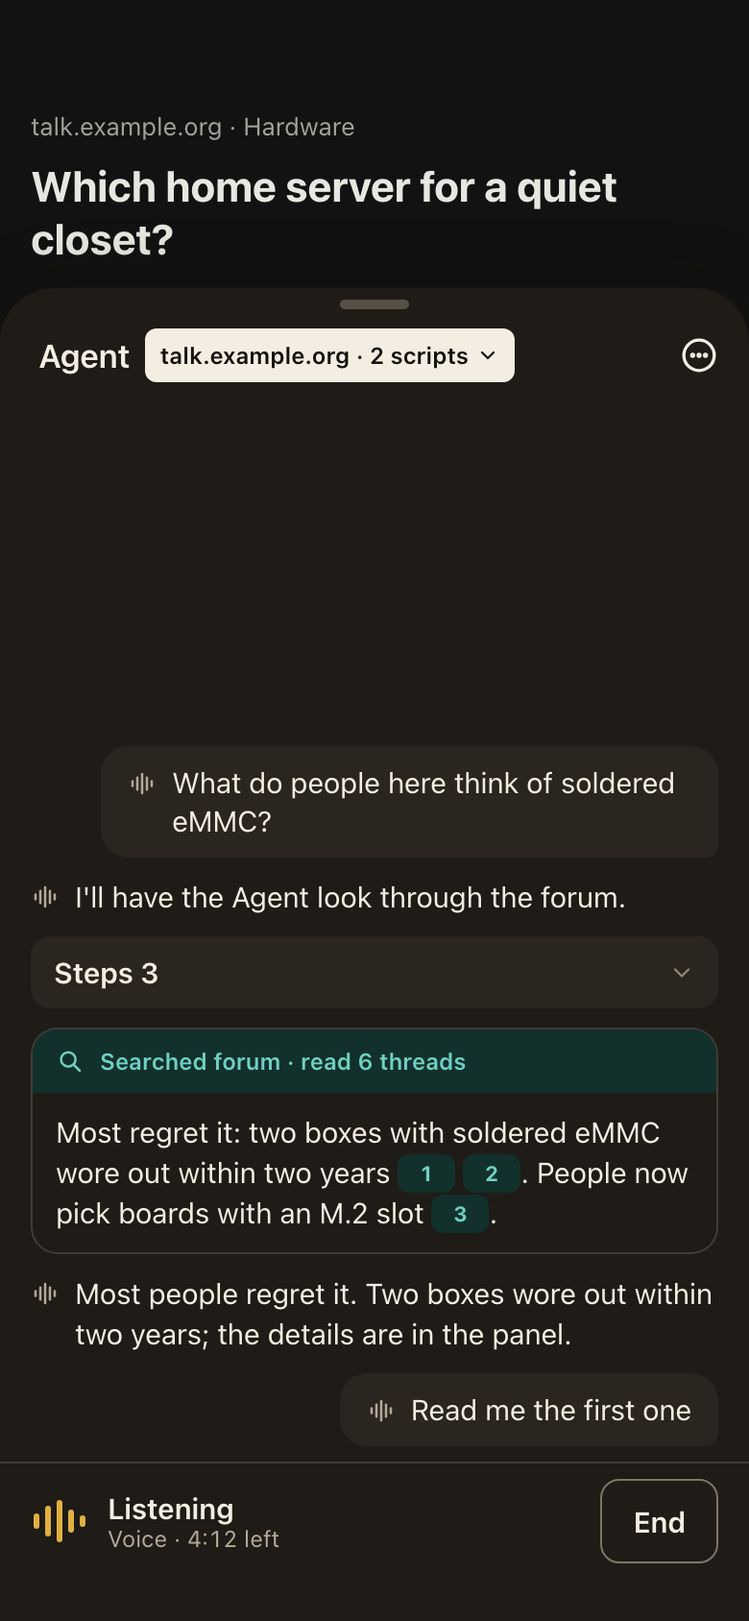
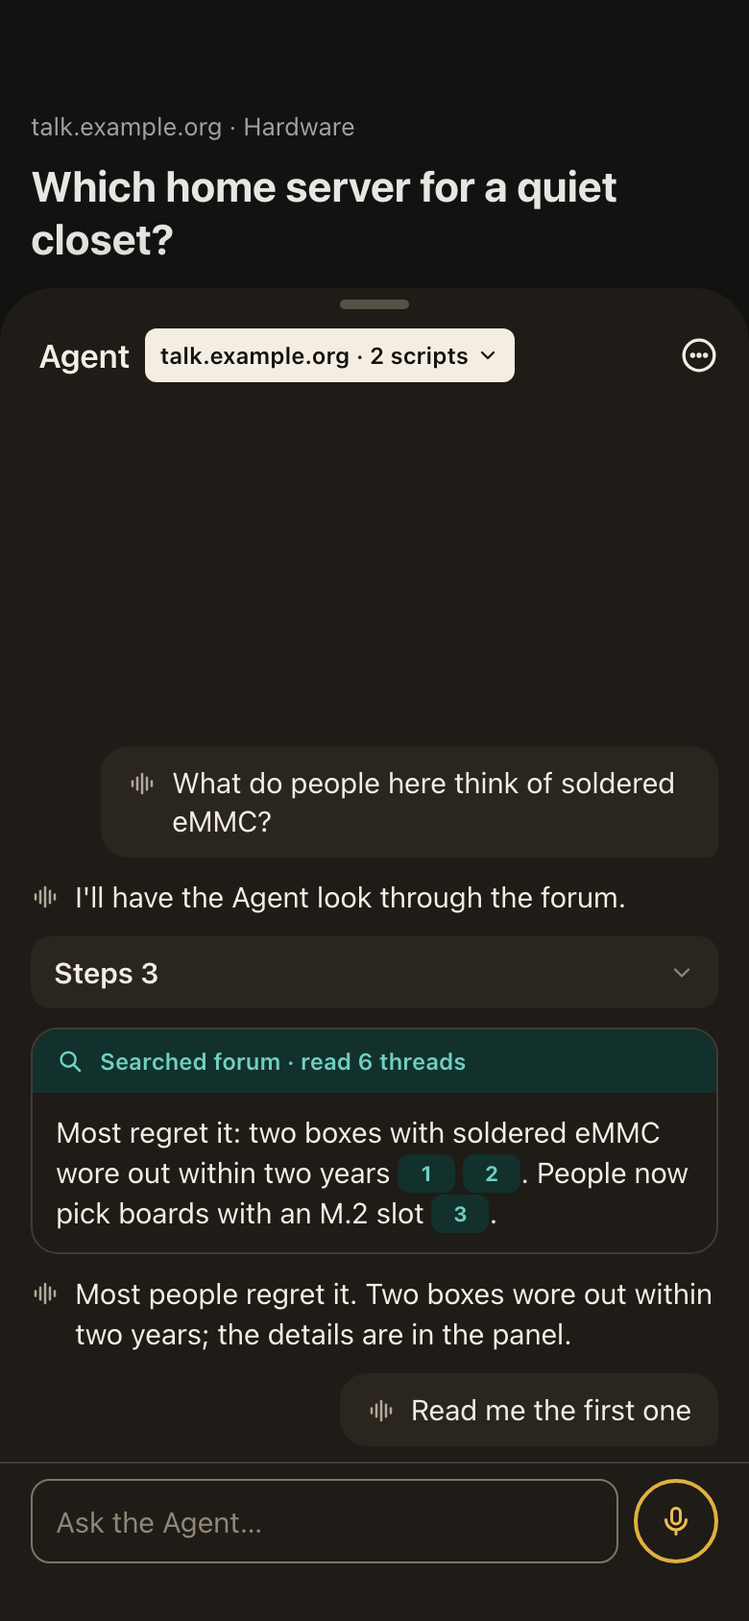
docs(design): match the paused status line to the app, keep voice controls in the Dock
Canvas version 56: the confirmation boards show "Working · step N" as
the app does while a card waits; the voice board keeps the standard
input box; notes no longer state unspecified behaviour as fact.

Claude-Session: https://claude.ai/code/session_0121xsGjmaRaSifEGUFRcdvq

Changed region(s): [[0.8, 0.8934, 0.9846, 0.9858], [0.0308, 0.9242, 0.3692, 0.955]]

diff --git a/docs/wukongmind/design/unified-canvas/PhoneConfirm.dc.html b/docs/wukongmind/design/unified-canvas/PhoneConfirm.dc.html
@@ -105,7 +105,7 @@ body{margin:0}
 /*/m3*/
 </style>
 </helmet>
-<div class="sf {{theme}}" style="width: 1250px; height: 844px; display: flex; gap: 40px; background: var(--canvas);"><div style="width: 390px; height: 844px; position: relative; overflow: hidden; background: var(--web); border-radius: 44px; flex-shrink: 0;"><section aria-label="Assistant panel" style="position: absolute; left: 0; right: 0; bottom: 0; top: 54px; background: var(--surface); border-radius: 28px 28px 0 0; box-shadow: 0 -8px 30px rgba(20,17,14,.16); display: flex; flex-direction: column;"><div style="display: flex; justify-content: center; padding-top: 6px;"><div style="width: 36px; height: 5px; border-radius: 3px; background: var(--ter); opacity: .5;"></div></div><header style="display: flex; align-items: center; gap: 8px; padding: 2px 4px 0 20px; min-height: 44px;"><h2 style="margin: 0; font-size: 17px; font-weight: 600; flex-shrink: 0;">Agent</h2><button class="seal ink" aria-label="This page: talk.example.org · 2 scripts" style="min-height: 28px; min-width: 0; overflow: hidden; text-overflow: ellipsis;">talk.example.org · 2 scripts<svg viewBox="0 0 24 24" aria-hidden="true"><path d="M6 9l6 6 6-6"/></svg></button><span style="flex: 1;"></span><button class="ibtn2" aria-label="More: model, new conversation, history, settings"><svg viewBox="0 0 24 24" aria-hidden="true"><circle cx="12" cy="12" r="9.5"/><circle cx="8" cy="12" r=".6" fill="currentColor"/><circle cx="12" cy="12" r=".6" fill="currentColor"/><circle cx="16" cy="12" r=".6" fill="currentColor"/></svg></button></header><div class="conv" style="flex: 1; overflow: hidden; padding: 4px 16px 8px; display: flex; flex-direction: column; justify-content: flex-end; gap: 10px;"><div class="ub">Save this thread to my reading list on readlater.net</div><div class="tl" role="list" aria-label="Tool calls"><div class="t" role="listitem"><span class="gd"><svg viewBox="0 0 24 24" aria-hidden="true"><path d="M5 12l5 5L19 7"/></svg></span><div class="m"><span class="lb">Read page</span><span class="ar">84 posts</span></div><svg class="cv" viewBox="0 0 24 24" aria-hidden="true"><path d="M9 6l6 6-6 6"/></svg></div><div class="t" role="listitem"><span class="gd run" role="img" aria-label="Running"></span><div class="m"><span class="lb" style="color: var(--blue);">Sending request</span><span class="ar">POST readlater.net/api/v2/items</span></div></div></div><div class="cc" role="group" aria-label="Confirmation"><div class="q">Send a request to readlater.net using your login there?</div><div class="u">https://readlater.net/api/v2/items</div><div class="bs"><button class="btn pri">Allow</button><button class="btn sec">Don't allow</button></div></div></div><div style="padding: 8px 0 30px; display: flex; flex-direction: column; gap: 8px; border-top: 1px solid var(--border);"><div class="strow"><span style="display: flex; color: var(--blue);"><svg viewBox="0 0 24 24" aria-hidden="true"><path d="M9 6v12M15 6v12"/></svg></span><span style="flex: 1; color: var(--blue);">Waiting for you · step 2</span></div><div style="display: flex; align-items: center; gap: 8px; padding: 0 16px;"><div class="fld">Write your next message…</div><button class="ringb stop" aria-label="Stop"><svg viewBox="0 0 24 24" aria-hidden="true"><rect x="7" y="7" width="10" height="10" rx="1.5" fill="currentColor"/></svg></button></div></div></section></div><div style="width: 390px; height: 844px; position: relative; overflow: hidden; background: var(--web); border-radius: 44px; flex-shrink: 0;"><section aria-label="Assistant panel" style="position: absolute; left: 0; right: 0; bottom: 0; top: 54px; background: var(--surface); border-radius: 28px 28px 0 0; box-shadow: 0 -8px 30px rgba(20,17,14,.16); display: flex; flex-direction: column;"><div style="display: flex; justify-content: center; padding-top: 6px;"><div style="width: 36px; height: 5px; border-radius: 3px; background: var(--ter); opacity: .5;"></div></div><header style="display: flex; align-items: center; gap: 8px; padding: 2px 4px 0 20px; min-height: 44px;"><h2 style="margin: 0; font-size: 17px; font-weight: 600; flex-shrink: 0;">Agent</h2><button class="seal ink" aria-label="This page: example.org" style="min-height: 28px; min-width: 0; overflow: hidden; text-overflow: ellipsis;">example.org<svg viewBox="0 0 24 24" aria-hidden="true"><path d="M6 9l6 6 6-6"/></svg></button><span style="flex: 1;"></span><button class="ibtn2" aria-label="More: model, new conversation, history, settings"><svg viewBox="0 0 24 24" aria-hidden="true"><circle cx="12" cy="12" r="9.5"/><circle cx="8" cy="12" r=".6" fill="currentColor"/><circle cx="12" cy="12" r=".6" fill="currentColor"/><circle cx="16" cy="12" r=".6" fill="currentColor"/></svg></button></header><div class="conv" style="flex: 1; overflow: hidden; padding: 4px 16px 8px; display: flex; flex-direction: column; justify-content: flex-end; gap: 10px;"><div class="ub">Why does this site keep signing me out?</div><div class="tl" role="list" aria-label="Tool calls"><div class="t" role="listitem"><span class="gd"><svg viewBox="0 0 24 24" aria-hidden="true"><path d="M5 12l5 5L19 7"/></svg></span><div class="m"><span class="lb">Read page</span><span class="ar">Account settings</span></div><svg class="cv" viewBox="0 0 24 24" aria-hidden="true"><path d="M9 6l6 6-6 6"/></svg></div><div class="t" role="listitem"><span class="gd"><svg viewBox="0 0 24 24" aria-hidden="true"><path d="M5 12l5 5L19 7"/></svg></span><div class="m"><span class="lb">Read network log</span><span class="ar">38 requests</span></div><svg class="cv" viewBox="0 0 24 24" aria-hidden="true"><path d="M9 6l6 6-6 6"/></svg></div><div class="t" role="listitem"><span class="gd run" role="img" aria-label="Running"></span><div class="m"><span class="lb" style="color: var(--blue);">Reading cookies</span><span class="ar">example.org</span></div></div></div><div class="cc" role="group" aria-label="Confirmation"><div class="q">Read 14 cookies for example.org?</div><div class="u">example.org</div><div class="bs"><button class="btn pri">Allow</button><button class="btn sec">Don't allow</button></div></div></div><div style="padding: 8px 0 30px; display: flex; flex-direction: column; gap: 8px; border-top: 1px solid var(--border);"><div class="strow"><span style="display: flex; color: var(--blue);"><svg viewBox="0 0 24 24" aria-hidden="true"><path d="M9 6v12M15 6v12"/></svg></span><span style="flex: 1; color: var(--blue);">Waiting for you · step 3</span></div><div style="display: flex; align-items: center; gap: 8px; padding: 0 16px;"><div class="fld">Write your next message…</div><button class="ringb stop" aria-label="Stop"><svg viewBox="0 0 24 24" aria-hidden="true"><rect x="7" y="7" width="10" height="10" rx="1.5" fill="currentColor"/></svg></button></div></div></section></div><div style="width: 390px; height: 844px; position: relative; overflow: hidden; background: var(--web); border-radius: 44px; flex-shrink: 0;"><section aria-label="Assistant panel" style="position: absolute; left: 0; right: 0; bottom: 0; top: 54px; background: var(--surface); border-radius: 28px 28px 0 0; box-shadow: 0 -8px 30px rgba(20,17,14,.16); display: flex; flex-direction: column;"><div style="display: flex; justify-content: center; padding-top: 6px;"><div style="width: 36px; height: 5px; border-radius: 3px; background: var(--ter); opacity: .5;"></div></div><header style="display: flex; align-items: center; gap: 8px; padding: 2px 4px 0 20px; min-height: 44px;"><h2 style="margin: 0; font-size: 17px; font-weight: 600; flex-shrink: 0;">Agent</h2><button class="seal ink" aria-label="This page: talk.example.org · 2 scripts" style="min-height: 28px; min-width: 0; overflow: hidden; text-overflow: ellipsis;">talk.example.org · 2 scripts<svg viewBox="0 0 24 24" aria-hidden="true"><path d="M6 9l6 6 6-6"/></svg></button><span style="flex: 1;"></span><button class="ibtn2" aria-label="More: model, new conversation, history, settings"><svg viewBox="0 0 24 24" aria-hidden="true"><circle cx="12" cy="12" r="9.5"/><circle cx="8" cy="12" r=".6" fill="currentColor"/><circle cx="12" cy="12" r=".6" fill="currentColor"/><circle cx="16" cy="12" r=".6" fill="currentColor"/></svg></button></header><div class="conv" style="flex: 1; overflow: hidden; padding: 4px 16px 8px; display: flex; flex-direction: column; justify-content: flex-end; gap: 10px;"><div class="ub">Save this thread to my reading list on readlater.net</div><div class="fold" role="button" aria-label="Steps 2, expanded"><span>Steps 2</span><span style="flex: 1;"></span><svg style="width: 14px; height: 14px; color: var(--ter);" viewBox="0 0 24 24" aria-hidden="true"><path d="M6 15l6-6 6 6"/></svg></div><div class="tl" role="list" aria-label="Tool calls"><div class="t" role="listitem"><span class="gd"><svg viewBox="0 0 24 24" aria-hidden="true"><path d="M5 12l5 5L19 7"/></svg></span><div class="m"><span class="lb">Read page</span><span class="ar">84 posts</span></div><svg class="cv" viewBox="0 0 24 24" aria-hidden="true"><path d="M9 6l6 6-6 6"/></svg></div><div class="t" role="listitem"><span class="gd err"><svg viewBox="0 0 24 24" aria-hidden="true"><path d="M12 4l9 16H3z"/><path d="M12 10v4M12 17v.5"/></svg></span><div class="m"><span class="lb">Sent request</span><span class="ar err">Error · you declined</span></div><svg class="cv" viewBox="0 0 24 24" aria-hidden="true"><path d="M9 6l6 6-6 6"/></svg></div></div><div class="at">Okay, I didn't send it. Without your readlater.net login I can't add the thread to your list there.</div></div><div style="padding: 8px 0 30px; display: flex; flex-direction: column; gap: 8px; border-top: 1px solid var(--border);"><div class="strow"><img class="masc" src="../design-system/assets/Mascot/cheer.svg" alt=""><span class="ok"><svg viewBox="0 0 24 24" aria-hidden="true"><path d="M5 12l5 5L19 7"/></svg></span><span style="flex: 1;">Done · 2 steps · 6 s</span></div><div role="group" aria-label="Suggestions" class="sgrow"><button class="sg">Summarize this thread and replies</button><button class="sg">Read it to me</button></div><div style="display: flex; align-items: center; gap: 8px; padding: 0 16px;"><div class="fld">Ask the Agent…</div><button class="ringb mic" aria-label="Talk"><svg viewBox="0 0 24 24" aria-hidden="true"><rect x="9" y="3" width="6" height="11" rx="3"/><path d="M5 11a7 7 0 0 0 14 0M12 18v3"/></svg></button></div></div></section></div></div>
+<div class="sf {{theme}}" style="width: 1250px; height: 844px; display: flex; gap: 40px; background: var(--canvas);"><div style="width: 390px; height: 844px; position: relative; overflow: hidden; background: var(--web); border-radius: 44px; flex-shrink: 0;"><section aria-label="Assistant panel" style="position: absolute; left: 0; right: 0; bottom: 0; top: 54px; background: var(--surface); border-radius: 28px 28px 0 0; box-shadow: 0 -8px 30px rgba(20,17,14,.16); display: flex; flex-direction: column;"><div style="display: flex; justify-content: center; padding-top: 6px;"><div style="width: 36px; height: 5px; border-radius: 3px; background: var(--ter); opacity: .5;"></div></div><header style="display: flex; align-items: center; gap: 8px; padding: 2px 4px 0 20px; min-height: 44px;"><h2 style="margin: 0; font-size: 17px; font-weight: 600; flex-shrink: 0;">Agent</h2><button class="seal ink" aria-label="This page: talk.example.org · 2 scripts" style="min-height: 28px; min-width: 0; overflow: hidden; text-overflow: ellipsis;">talk.example.org · 2 scripts<svg viewBox="0 0 24 24" aria-hidden="true"><path d="M6 9l6 6 6-6"/></svg></button><span style="flex: 1;"></span><button class="ibtn2" aria-label="More: model, new conversation, history, settings"><svg viewBox="0 0 24 24" aria-hidden="true"><circle cx="12" cy="12" r="9.5"/><circle cx="8" cy="12" r=".6" fill="currentColor"/><circle cx="12" cy="12" r=".6" fill="currentColor"/><circle cx="16" cy="12" r=".6" fill="currentColor"/></svg></button></header><div class="conv" style="flex: 1; overflow: hidden; padding: 4px 16px 8px; display: flex; flex-direction: column; justify-content: flex-end; gap: 10px;"><div class="ub">Save this thread to my reading list on readlater.net</div><div class="tl" role="list" aria-label="Tool calls"><div class="t" role="listitem"><span class="gd"><svg viewBox="0 0 24 24" aria-hidden="true"><path d="M5 12l5 5L19 7"/></svg></span><div class="m"><span class="lb">Read page</span><span class="ar">84 posts</span></div><svg class="cv" viewBox="0 0 24 24" aria-hidden="true"><path d="M9 6l6 6-6 6"/></svg></div><div class="t" role="listitem"><span class="gd run" role="img" aria-label="Running"></span><div class="m"><span class="lb" style="color: var(--blue);">Sending request</span><span class="ar">POST readlater.net/api/v2/items</span></div></div></div><div class="cc" role="group" aria-label="Confirmation"><div class="q">Send a request to readlater.net using your login there?</div><div class="u">https://readlater.net/api/v2/items</div><div class="bs"><button class="btn pri">Allow</button><button class="btn sec">Don't allow</button></div></div></div><div style="padding: 8px 0 30px; display: flex; flex-direction: column; gap: 8px; border-top: 1px solid var(--border);"><div class="strow"><img class="masc" src="../design-system/assets/Mascot/run.svg" alt=""><span style="flex: 1; color: var(--blue);">Working · step 2</span></div><div style="display: flex; align-items: center; gap: 8px; padding: 0 16px;"><div class="fld">Write your next message…</div><button class="ringb stop" aria-label="Stop"><svg viewBox="0 0 24 24" aria-hidden="true"><rect x="7" y="7" width="10" height="10" rx="1.5" fill="currentColor"/></svg></button></div></div></section></div><div style="width: 390px; height: 844px; position: relative; overflow: hidden; background: var(--web); border-radius: 44px; flex-shrink: 0;"><section aria-label="Assistant panel" style="position: absolute; left: 0; right: 0; bottom: 0; top: 54px; background: var(--surface); border-radius: 28px 28px 0 0; box-shadow: 0 -8px 30px rgba(20,17,14,.16); display: flex; flex-direction: column;"><div style="display: flex; justify-content: center; padding-top: 6px;"><div style="width: 36px; height: 5px; border-radius: 3px; background: var(--ter); opacity: .5;"></div></div><header style="display: flex; align-items: center; gap: 8px; padding: 2px 4px 0 20px; min-height: 44px;"><h2 style="margin: 0; font-size: 17px; font-weight: 600; flex-shrink: 0;">Agent</h2><button class="seal ink" aria-label="This page: example.org" style="min-height: 28px; min-width: 0; overflow: hidden; text-overflow: ellipsis;">example.org<svg viewBox="0 0 24 24" aria-hidden="true"><path d="M6 9l6 6 6-6"/></svg></button><span style="flex: 1;"></span><button class="ibtn2" aria-label="More: model, new conversation, history, settings"><svg viewBox="0 0 24 24" aria-hidden="true"><circle cx="12" cy="12" r="9.5"/><circle cx="8" cy="12" r=".6" fill="currentColor"/><circle cx="12" cy="12" r=".6" fill="currentColor"/><circle cx="16" cy="12" r=".6" fill="currentColor"/></svg></button></header><div class="conv" style="flex: 1; overflow: hidden; padding: 4px 16px 8px; display: flex; flex-direction: column; justify-content: flex-end; gap: 10px;"><div class="ub">Why does this site keep signing me out?</div><div class="tl" role="list" aria-label="Tool calls"><div class="t" role="listitem"><span class="gd"><svg viewBox="0 0 24 24" aria-hidden="true"><path d="M5 12l5 5L19 7"/></svg></span><div class="m"><span class="lb">Read page</span><span class="ar">Account settings</span></div><svg class="cv" viewBox="0 0 24 24" aria-hidden="true"><path d="M9 6l6 6-6 6"/></svg></div><div class="t" role="listitem"><span class="gd"><svg viewBox="0 0 24 24" aria-hidden="true"><path d="M5 12l5 5L19 7"/></svg></span><div class="m"><span class="lb">Read network log</span><span class="ar">38 requests</span></div><svg class="cv" viewBox="0 0 24 24" aria-hidden="true"><path d="M9 6l6 6-6 6"/></svg></div><div class="t" role="listitem"><span class="gd run" role="img" aria-label="Running"></span><div class="m"><span class="lb" style="color: var(--blue);">Reading cookies</span><span class="ar">example.org</span></div></div></div><div class="cc" role="group" aria-label="Confirmation"><div class="q">Read 14 cookies for example.org?</div><div class="u">example.org</div><div class="bs"><button class="btn pri">Allow</button><button class="btn sec">Don't allow</button></div></div></div><div style="padding: 8px 0 30px; display: flex; flex-direction: column; gap: 8px; border-top: 1px solid var(--border);"><div class="strow"><img class="masc" src="../design-system/assets/Mascot/run.svg" alt=""><span style="flex: 1; color: var(--blue);">Working · step 3</span></div><div style="display: flex; align-items: center; gap: 8px; padding: 0 16px;"><div class="fld">Write your next message…</div><button class="ringb stop" aria-label="Stop"><svg viewBox="0 0 24 24" aria-hidden="true"><rect x="7" y="7" width="10" height="10" rx="1.5" fill="currentColor"/></svg></button></div></div></section></div><div style="width: 390px; height: 844px; position: relative; overflow: hidden; background: var(--web); border-radius: 44px; flex-shrink: 0;"><section aria-label="Assistant panel" style="position: absolute; left: 0; right: 0; bottom: 0; top: 54px; background: var(--surface); border-radius: 28px 28px 0 0; box-shadow: 0 -8px 30px rgba(20,17,14,.16); display: flex; flex-direction: column;"><div style="display: flex; justify-content: center; padding-top: 6px;"><div style="width: 36px; height: 5px; border-radius: 3px; background: var(--ter); opacity: .5;"></div></div><header style="display: flex; align-items: center; gap: 8px; padding: 2px 4px 0 20px; min-height: 44px;"><h2 style="margin: 0; font-size: 17px; font-weight: 600; flex-shrink: 0;">Agent</h2><button class="seal ink" aria-label="This page: talk.example.org · 2 scripts" style="min-height: 28px; min-width: 0; overflow: hidden; text-overflow: ellipsis;">talk.example.org · 2 scripts<svg viewBox="0 0 24 24" aria-hidden="true"><path d="M6 9l6 6 6-6"/></svg></button><span style="flex: 1;"></span><button class="ibtn2" aria-label="More: model, new conversation, history, settings"><svg viewBox="0 0 24 24" aria-hidden="true"><circle cx="12" cy="12" r="9.5"/><circle cx="8" cy="12" r=".6" fill="currentColor"/><circle cx="12" cy="12" r=".6" fill="currentColor"/><circle cx="16" cy="12" r=".6" fill="currentColor"/></svg></button></header><div class="conv" style="flex: 1; overflow: hidden; padding: 4px 16px 8px; display: flex; flex-direction: column; justify-content: flex-end; gap: 10px;"><div class="ub">Save this thread to my reading list on readlater.net</div><div class="fold" role="button" aria-label="Steps 2, expanded"><span>Steps 2</span><span style="flex: 1;"></span><svg style="width: 14px; height: 14px; color: var(--ter);" viewBox="0 0 24 24" aria-hidden="true"><path d="M6 15l6-6 6 6"/></svg></div><div class="tl" role="list" aria-label="Tool calls"><div class="t" role="listitem"><span class="gd"><svg viewBox="0 0 24 24" aria-hidden="true"><path d="M5 12l5 5L19 7"/></svg></span><div class="m"><span class="lb">Read page</span><span class="ar">84 posts</span></div><svg class="cv" viewBox="0 0 24 24" aria-hidden="true"><path d="M9 6l6 6-6 6"/></svg></div><div class="t" role="listitem"><span class="gd err"><svg viewBox="0 0 24 24" aria-hidden="true"><path d="M12 4l9 16H3z"/><path d="M12 10v4M12 17v.5"/></svg></span><div class="m"><span class="lb">Sent request</span><span class="ar err">Error · you declined</span></div><svg class="cv" viewBox="0 0 24 24" aria-hidden="true"><path d="M9 6l6 6-6 6"/></svg></div></div><div class="at">Okay, I didn't send it. Without your readlater.net login I can't add the thread to your list there.</div></div><div style="padding: 8px 0 30px; display: flex; flex-direction: column; gap: 8px; border-top: 1px solid var(--border);"><div class="strow"><img class="masc" src="../design-system/assets/Mascot/cheer.svg" alt=""><span class="ok"><svg viewBox="0 0 24 24" aria-hidden="true"><path d="M5 12l5 5L19 7"/></svg></span><span style="flex: 1;">Done · 2 steps · 6 s</span></div><div role="group" aria-label="Suggestions" class="sgrow"><button class="sg">Summarize this thread and replies</button><button class="sg">Read it to me</button></div><div style="display: flex; align-items: center; gap: 8px; padding: 0 16px;"><div class="fld">Ask the Agent…</div><button class="ringb mic" aria-label="Talk"><svg viewBox="0 0 24 24" aria-hidden="true"><rect x="9" y="3" width="6" height="11" rx="3"/><path d="M5 11a7 7 0 0 0 14 0M12 18v3"/></svg></button></div></div></section></div></div>
 </x-dc>
 <script type="text/x-dc" data-dc-script data-props='{"theme":{"editor":"enum","options":["lt","dk"],"default":"lt"},"$preview":{"width":1250,"height":844}}'>
 class Component extends DCLogic {

diff --git a/docs/wukongmind/design/unified-canvas/PhoneVoice.dc.html b/docs/wukongmind/design/unified-canvas/PhoneVoice.dc.html
@@ -105,7 +105,7 @@ body{margin:0}
 /*/m3*/
 </style>
 </helmet>
-<div class="sf {{theme}}" style="width: 390px; height: 844px; position: relative; overflow: hidden; background: var(--web);"><div style="padding: 58px 16px 0; display: flex; flex-direction: column; gap: 10px; color: var(--webtext);"><div style="font-size: 13px; color: var(--websec);">talk.example.org · Hardware</div><div style="font-size: 22px; line-height: 1.25; font-weight: 700;">Which home server for a quiet closet?</div></div><section aria-label="Assistant panel" style="position: absolute; left: 0; right: 0; bottom: 0; top: 150px; background: var(--surface); border-radius: 28px 28px 0 0; box-shadow: 0 -8px 30px rgba(20,17,14,.16); display: flex; flex-direction: column;"><div style="display: flex; justify-content: center; padding-top: 6px;"><div style="width: 36px; height: 5px; border-radius: 3px; background: var(--ter); opacity: .5;"></div></div><header style="display: flex; align-items: center; gap: 8px; padding: 2px 4px 0 20px; min-height: 44px;"><h2 style="margin: 0; font-size: 17px; font-weight: 600; flex-shrink: 0;">Agent</h2><button class="seal ink" aria-label="This page: talk.example.org · 2 scripts" style="min-height: 28px; min-width: 0; overflow: hidden; text-overflow: ellipsis;">talk.example.org · 2 scripts<svg viewBox="0 0 24 24" aria-hidden="true"><path d="M6 9l6 6 6-6"/></svg></button><span style="flex: 1;"></span><button class="ibtn2" aria-label="More: model, new conversation, history, settings"><svg viewBox="0 0 24 24" aria-hidden="true"><circle cx="12" cy="12" r="9.5"/><circle cx="8" cy="12" r=".6" fill="currentColor"/><circle cx="12" cy="12" r=".6" fill="currentColor"/><circle cx="16" cy="12" r=".6" fill="currentColor"/></svg></button></header><div class="conv" style="flex: 1; overflow: hidden; padding: 4px 16px 8px; display: flex; flex-direction: column; justify-content: flex-end; gap: 10px;"><div class="ub vu" aria-label="You said: What do people here think of soldered eMMC?"><svg class="vg" viewBox="0 0 24 24" aria-hidden="true"><path d="M4 10v4M8 7v10M12 4v16M16 7v10M20 10v4"/></svg><span>What do people here think of soldered eMMC?</span></div><div class="at vu" aria-label="Voice reply: I'll have the Agent look through the forum."><svg class="vg" viewBox="0 0 24 24" aria-hidden="true"><path d="M4 10v4M8 7v10M12 4v16M16 7v10M20 10v4"/></svg><span>I'll have the Agent look through the forum.</span></div><div class="fold" role="button" aria-label="Steps 3, collapsed"><span>Steps 3</span><span style="flex: 1;"></span><svg style="width: 14px; height: 14px; color: var(--ter);" viewBox="0 0 24 24" aria-hidden="true"><path d="M6 9l6 6 6-6"/></svg></div><div class="card"><div class="chd"><svg viewBox="0 0 24 24" aria-hidden="true"><circle cx="10.5" cy="10.5" r="6"/><path d="M20 20l-5-5"/></svg><span style="flex: 1;">Searched forum · read 6 threads</span></div><div class="cbd">Most regret it: two boxes with soldered eMMC wore out within two years <span class="ci">1</span> <span class="ci">2</span>. People now pick boards with an M.2 slot <span class="ci">3</span>.</div></div><div class="at vu" aria-label="Voice reply"><svg class="vg" viewBox="0 0 24 24" aria-hidden="true"><path d="M4 10v4M8 7v10M12 4v16M16 7v10M20 10v4"/></svg><span>Most people regret it. Two boxes wore out within two years; the details are in the panel.</span></div><div class="ub vu" aria-label="You said: Read me the first one"><svg class="vg" viewBox="0 0 24 24" aria-hidden="true"><path d="M4 10v4M8 7v10M12 4v16M16 7v10M20 10v4"/></svg><span>Read me the first one</span></div></div><div style="padding: 8px 0 30px; display: flex; flex-direction: column; gap: 8px; border-top: 1px solid var(--border);"><div style="display: flex; align-items: center; gap: 10px; padding: 0 16px; min-height: 44px;"><span class="bars" aria-hidden="true"><span style="height: 8px;"></span><span style="height: 16px;"></span><span style="height: 22px;"></span><span style="height: 12px;"></span><span style="height: 6px;"></span></span><div style="flex: 1; min-width: 0; display: flex; flex-direction: column;"><span style="font-size: 15px; font-weight: 600;">Listening</span><span style="font-size: 12px; color: var(--sec); font-variant-numeric: tabular-nums;">Voice · 4:12 left</span></div><button class="btn sec">End</button></div></div></section></div>
+<div class="sf {{theme}}" style="width: 390px; height: 844px; position: relative; overflow: hidden; background: var(--web);"><div style="padding: 58px 16px 0; display: flex; flex-direction: column; gap: 10px; color: var(--webtext);"><div style="font-size: 13px; color: var(--websec);">talk.example.org · Hardware</div><div style="font-size: 22px; line-height: 1.25; font-weight: 700;">Which home server for a quiet closet?</div></div><section aria-label="Assistant panel" style="position: absolute; left: 0; right: 0; bottom: 0; top: 150px; background: var(--surface); border-radius: 28px 28px 0 0; box-shadow: 0 -8px 30px rgba(20,17,14,.16); display: flex; flex-direction: column;"><div style="display: flex; justify-content: center; padding-top: 6px;"><div style="width: 36px; height: 5px; border-radius: 3px; background: var(--ter); opacity: .5;"></div></div><header style="display: flex; align-items: center; gap: 8px; padding: 2px 4px 0 20px; min-height: 44px;"><h2 style="margin: 0; font-size: 17px; font-weight: 600; flex-shrink: 0;">Agent</h2><button class="seal ink" aria-label="This page: talk.example.org · 2 scripts" style="min-height: 28px; min-width: 0; overflow: hidden; text-overflow: ellipsis;">talk.example.org · 2 scripts<svg viewBox="0 0 24 24" aria-hidden="true"><path d="M6 9l6 6 6-6"/></svg></button><span style="flex: 1;"></span><button class="ibtn2" aria-label="More: model, new conversation, history, settings"><svg viewBox="0 0 24 24" aria-hidden="true"><circle cx="12" cy="12" r="9.5"/><circle cx="8" cy="12" r=".6" fill="currentColor"/><circle cx="12" cy="12" r=".6" fill="currentColor"/><circle cx="16" cy="12" r=".6" fill="currentColor"/></svg></button></header><div class="conv" style="flex: 1; overflow: hidden; padding: 4px 16px 8px; display: flex; flex-direction: column; justify-content: flex-end; gap: 10px;"><div class="ub vu" aria-label="You said: What do people here think of soldered eMMC?"><svg class="vg" viewBox="0 0 24 24" aria-hidden="true"><path d="M4 10v4M8 7v10M12 4v16M16 7v10M20 10v4"/></svg><span>What do people here think of soldered eMMC?</span></div><div class="at vu" aria-label="Voice reply: I'll have the Agent look through the forum."><svg class="vg" viewBox="0 0 24 24" aria-hidden="true"><path d="M4 10v4M8 7v10M12 4v16M16 7v10M20 10v4"/></svg><span>I'll have the Agent look through the forum.</span></div><div class="fold" role="button" aria-label="Steps 3, collapsed"><span>Steps 3</span><span style="flex: 1;"></span><svg style="width: 14px; height: 14px; color: var(--ter);" viewBox="0 0 24 24" aria-hidden="true"><path d="M6 9l6 6 6-6"/></svg></div><div class="card"><div class="chd"><svg viewBox="0 0 24 24" aria-hidden="true"><circle cx="10.5" cy="10.5" r="6"/><path d="M20 20l-5-5"/></svg><span style="flex: 1;">Searched forum · read 6 threads</span></div><div class="cbd">Most regret it: two boxes with soldered eMMC wore out within two years <span class="ci">1</span> <span class="ci">2</span>. People now pick boards with an M.2 slot <span class="ci">3</span>.</div></div><div class="at vu" aria-label="Voice reply"><svg class="vg" viewBox="0 0 24 24" aria-hidden="true"><path d="M4 10v4M8 7v10M12 4v16M16 7v10M20 10v4"/></svg><span>Most people regret it. Two boxes wore out within two years; the details are in the panel.</span></div><div class="ub vu" aria-label="You said: Read me the first one"><svg class="vg" viewBox="0 0 24 24" aria-hidden="true"><path d="M4 10v4M8 7v10M12 4v16M16 7v10M20 10v4"/></svg><span>Read me the first one</span></div></div><div style="padding: 8px 0 30px; display: flex; flex-direction: column; gap: 8px; border-top: 1px solid var(--border);"><div style="display: flex; align-items: center; gap: 8px; padding: 0 16px;"><div class="fld">Ask the Agent…</div><button class="ringb mic" aria-label="Talk"><svg viewBox="0 0 24 24" aria-hidden="true"><rect x="9" y="3" width="6" height="11" rx="3"/><path d="M5 11a7 7 0 0 0 14 0M12 18v3"/></svg></button></div></div></section></div>
 </x-dc>
 <script type="text/x-dc" data-dc-script data-props='{"theme":{"editor":"enum","options":["lt","dk"],"default":"lt"},"$preview":{"width":390,"height":844}}'>
 class Component extends DCLogic {

diff --git a/docs/wukongmind/design/README.md b/docs/wukongmind/design/README.md
@@ -3,6 +3,6 @@
 Copies of the owner-confirmed design artifacts, so agents that can't open claude.ai artifacts can implement them. The artifacts remain the source of truth; re-export if they change.
 
 - `design-system/`: the WukongMind design system (https://claude.ai/artifact/5fGhnS4fmcmWYZbPoKTTZ2), exported 2026-11-13. `README.md` (foundations, colour meanings, the ring, shape, type, motion, the DCTheme migration table), `tokens.json` (colour tokens light/dark, type styles, spacing, radius, shadow, border), `components/<Name>/README.md` + `preview.html` (reference drawings in HTML/CSS using the token CSS variables; implement in SwiftUI), `assets/Logo/` and `assets/Mascot/` (SVGs, the 1024 app icon PNG, usage READMEs).
-- `unified-canvas/`: the boards of the unified interface design (https://claude.ai/artifact/Daefr4AsZcSm2EWbTLU9uK), exported 2026-11-13 (re-exported the same day with the M3 and One loop boards, canvas version 55). Each `*.dc.html` is one board's markup and CSS (light theme variables in `.lt`, dark in `.dk`; `*Dark.dc.html` boards just render the light board with the dark theme). They depend on the design tool's runtime, so they won't render standalone in a browser: read them as layout and style specs. `canvas.json` lists the boards and their order. Image references point to the files in `design-system/assets/`. The written spec is `docs/wukongmind/design-unified.md`. `png/<Board>.png` holds 2x renders of the boards added or changed since the first export (light and dark); the boards' own markup stays the spec.
+- `unified-canvas/`: the boards of the unified interface design (https://claude.ai/artifact/Daefr4AsZcSm2EWbTLU9uK), exported 2026-11-13 (re-exported the same day with the M3 and One loop boards, canvas version 56). Each `*.dc.html` is one board's markup and CSS (light theme variables in `.lt`, dark in `.dk`; `*Dark.dc.html` boards just render the light board with the dark theme). They depend on the design tool's runtime, so they won't render standalone in a browser: read them as layout and style specs. `canvas.json` lists the boards and their order. Image references point to the files in `design-system/assets/`. The written spec is `docs/wukongmind/design-unified.md`. `png/<Board>.png` holds 2x PNGs of the boards added or changed since the first export (light and dark), rendered locally with headless Chrome from these files (theme filled in, image paths pointed at `design-system/assets/`); the boards' own markup stays the spec.
 
 Key boards: `PhonePanelForum`, `PhonePanelPage`, `PanelStates`, `KeyboardUp`, `SuggestionRow`, `PhoneThisPage` (assistant panel); `PhoneHome`, `IPadHome` (start page); `PhoneSettings`, `PhoneModels`, `PhoneAgentSettings`, `PhoneSites`, `IPadSettings` (settings); `PhoneOnb1-3`, `IPadOnb` (onboarding); `Motion`; `IA` (screen map), `Migration`, `Glossary`. `PhoneResearch` shows the One loop stage, not One panel. M3 (spec `design-m3.md`): `PhoneConfirm` (the confirmation card: login on another site, cookies, after Don't allow), `PhoneScreenshot` (screenshot thumbnail in the tool row, full-size sheet, warning before and after). One loop (spec `design-one-loop.md`): `PhoneSavedAnswer` (read-only saved answer from History or Home's Recent), `PhoneVoice` (voice turns in the conversation). Each has a `*Dark` board.
